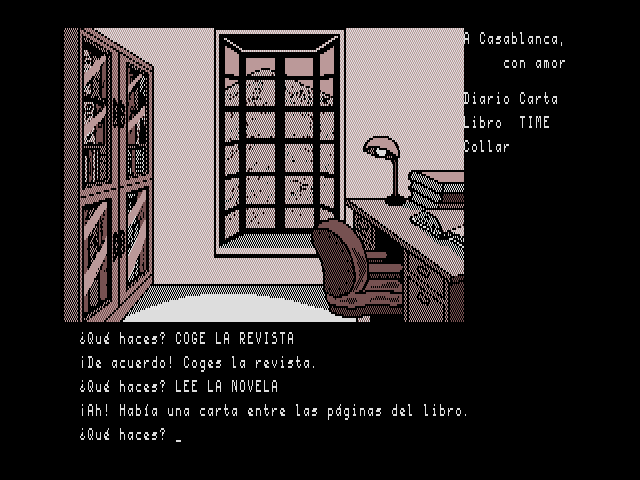
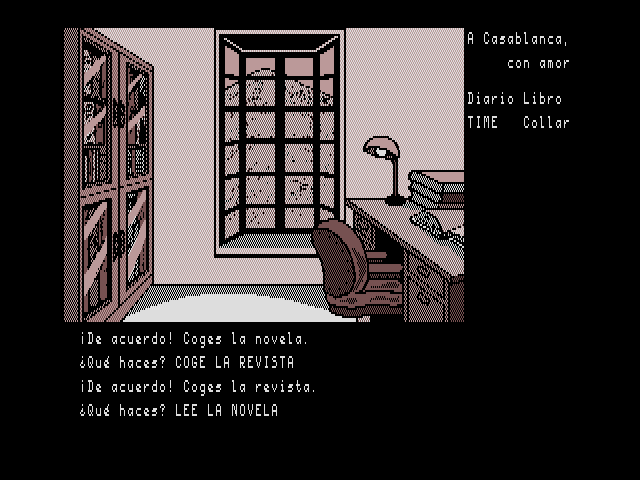
v1.0: título en castellano y panel derecho separado del dibujo
Claude-Session: https://claude.ai/code/session_01BwzBfcK2bq4k6ZrqTBs971

diff --git a/tools/pic.py b/tools/pic.py
@@ -1,0 +1,48 @@
+# Compresor y descompresor de los dibujos de OPEN.COM (PIC100/PIC101.MSX). araubi, 2026. MIT.
+"""Formato de dibujo de OPEN.COM (PIC100/101): por cada par de líneas, N controles alternos
+literal/ceros, filtro XOR acumulado, bytes pares = línea par, impares (rotados 2) = línea impar."""
+def rl2(a): return ((a<<2)|(a>>6))&255
+def rr2(a): return ((a>>2)|(a<<6))&255
+def decodifica(d):
+    W=d[0]; H=d[1]; p=2; vram=bytearray(128*H)
+    for it in range(H//2):
+        n=d[p]; p+=1; ctl=d[p:p+n]; p+=n; buf=bytearray(); lit=True
+        for k in ctl:
+            if lit: buf+=d[p:p+k]; p+=k
+            else: buf+=bytes(k)
+            lit=not lit
+        buf+=bytes(2*W-len(buf))
+        a=0
+        for j in range(W):
+            a^=buf[2*j]; buf[2*j]=a
+            a^=buf[2*j+1]; buf[2*j+1]=rl2(a)
+        for j in range(W):
+            vram[(2*it)*128+j]=buf[2*j]; vram[(2*it+1)*128+j]=buf[2*j+1]
+    return vram,W,H,p
+def codifica(vram,W,H):
+    out=bytearray([W,H])
+    for it in range(H//2):
+        e=[vram[(2*it)*128+j] for j in range(W)]; o=[vram[(2*it+1)*128+j] for j in range(W)]
+        buf=bytearray(2*W); a=0
+        for j in range(W):
+            buf[2*j]=e[j]^a; a=e[j]
+            v=rr2(o[j]); buf[2*j+1]=v^a; a=v
+        # quita ceros finales
+        n=len(buf)
+        while n and buf[n-1]==0: n-=1
+        ctl=[]; data=bytearray(); i=0; lit=True
+        while i<n:
+            j=i
+            if lit:
+                # literal hasta encontrar 3+ ceros seguidos
+                while j<n and j-i<255:
+                    if buf[j]==0 and j+2<n and buf[j+1]==0 and buf[j+2]==0: break
+                    if buf[j]==0 and j+1>=n: break
+                    j+=1
+                data+=buf[i:j]
+            else:
+                while j<n and buf[j]==0 and j-i<255: j+=1
+            ctl.append(j-i); i=j; lit=not lit
+        assert len(ctl)<256
+        out+=bytes([len(ctl)])+bytes(ctl)+data
+    return bytes(out)

diff --git a/tools/genera_titulo.py b/tools/genera_titulo.py
@@ -1,0 +1,33 @@
+#!/usr/bin/env python3
+"""Genera font/titulo_es.png: el título en castellano que sustituye al japonés en PIC101.MSX.
+Zona x 228-511, y 4-52 de la pantalla de 512x200 (SCREEN 6: píxeles el doble de altos que de anchos).
+Usa FreeSerif Bold Italic (GNU FreeFont) y la fuente de la traducción. araubi, 2026. MIT.
+uso: genera_titulo.py   (necesita Pillow y fonts-freefont-ttf)"""
+import os,sys,glob
+from PIL import Image,ImageDraw,ImageFont
+RAIZ=os.path.dirname(os.path.dirname(os.path.abspath(__file__)))
+sys.path.insert(0,os.path.join(RAIZ,'tools'))
+from fuente import construye as fnt, codifica
+X0,Y0,W,H=228,4,284,49
+def ttf(nombre,t): return ImageFont.truetype(glob.glob('/usr/share/fonts/**/'+nombre,recursive=True)[0],t)
+def texto(s,f,umbral=110):
+    d=ImageDraw.Draw(Image.new('L',(1,1))); b=d.textbbox((0,0),s,font=f)
+    im=Image.new('L',(b[2]-b[0]+8,b[3]-b[1]+8),0); ImageDraw.Draw(im).text((4-b[0],4-b[1]),s,font=f,fill=255)
+    w,h=im.size; im=im.resize((max(1,w//2),max(1,h//4)),Image.LANCZOS)
+    return im.point(lambda p:255 if p>umbral else 0)
+def pequeno(s):
+    G=fnt(); cs=codifica(s); im=Image.new('L',(8*len(cs),11),0)
+    for i,c in enumerate(cs):
+        for y in range(11):
+            for x in range(8):
+                if G[c*11+y]&(0x80>>x): im.putpixel((i*8+x,y),255)
+    return im
+m=Image.new('1',(W,H),0)
+def pega(im,x,y): m.paste(im.convert('1'),(x-X0,y-Y0),im.convert('1'))
+t1=texto('A Casablanca,',ttf('FreeSerifBoldItalic.ttf',84)); t2=texto('con amor',ttf('FreeSerifBoldItalic.ttf',84))
+t3=pequeno('El asesino que cruzó el tiempo')
+pega(t1,250,6); y2=6+t1.size[1]-2; pega(t2,505-t2.size[0],y2)
+yl=y2+t2.size[1]+1
+for x in range(300,508): m.putpixel((x-X0,yl-Y0),1)
+pega(t3,507-t3.size[0],yl+3)
+m.save(os.path.join(RAIZ,'font','titulo_es.png'))

diff --git a/tools/pdf_solucion.py b/tools/pdf_solucion.py
@@ -34,7 +34,7 @@ def pasos(filas):
 E=[]
 E.append(P('A Casablanca, con amor','t'))
 E.append(P('<i>Casablanca ni Ai wo</i> (Thinking Rabbit, 1988, MSX2) · Guía de la traducción al castellano · araubi · versión 1.0','st'))
-tit=os.path.join(os.path.dirname(os.path.dirname(os.path.abspath(__file__))),'docs','titulo.png')
+tit=os.path.join(os.path.dirname(os.path.dirname(os.path.abspath(__file__))),'docs','capturas','titulo.png')
 if os.path.exists(tit): E.append(Image(tit,width=120*mm,height=90*mm)); E.append(Spacer(1,4))
 E.append(P('Esta guía lleva la partida de principio a fin con las órdenes de la traducción. Se ha jugado entera en openMSX '
  '(Sony HB-F900) con los discos traducidos, en este mismo orden. '

diff --git a/tools/titulo.py b/tools/titulo.py
@@ -1,0 +1,15 @@
+"""Pone el título en castellano (font/titulo_es.png) en PIC101.MSX. araubi, 2026. MIT."""
+import os
+from PIL import Image
+import pic
+RAIZ=os.path.dirname(os.path.dirname(os.path.abspath(__file__)))
+X0,Y0=228,4
+def aplica(orig):
+    v,W,H,_=pic.decodifica(orig); v=bytearray(v)
+    m=Image.open(os.path.join(RAIZ,'font','titulo_es.png')).convert('1')
+    for y in range(m.size[1]):
+        for x in range(m.size[0]):
+            X=X0+x; Y=Y0+y; o=Y*128+X//4; s=6-2*(X%4)
+            c=0 if m.getpixel((x,y)) else 3
+            v[o]=(v[o]&~(3<<s)&255)|(c<<s)
+    return pic.codifica(v,W,H)

diff --git a/tools/build.py b/tools/build.py
@@ -20,6 +20,9 @@ def main(p1,p2,out,textos=True):
     com,S=parche_runadv.parchea(D1.lee('RUNADV.COM'),id_relleno,*([[l or parche_runadv.LARGOS[i] for i,l in enumerate(largos)]] if textos else []))
     D1.escribe('RUNADV.COM',com)
     D1.escribe('KANJI.FNT',kanji_fnt(D1.lee('KANJI.FNT')))
+    import titulo
+    t=titulo.aplica(D1.lee('PIC101.MSX')); assert len(t)<0x36B0
+    D1.escribe('PIC101.MSX',t)
     os.makedirs(out,exist_ok=True)
     open(os.path.join(out,'Casablanca_ES_disco1.dsk'),'wb').write(D1.imagen())
     open(os.path.join(out,'Casablanca_ES_disco2.dsk'),'wb').write(D2.imagen())

diff --git a/tools/parche_runadv.py b/tools/parche_runadv.py
@@ -110,6 +110,8 @@ def parchea(com,id_relleno,largos=LARGOS):
     p(0x0DDB,'CD320F',bytes([0xCD])+w16(S['EXT_BUSCA']))
     # 5b) minúsculas sin CAPS y Ñ
     p(0x16EB,'CDA525',bytes([0xCD])+w16(S['EXT_CHGET']))
+    # 5c) panel derecho separado del dibujo
+    p(0x25C9,'E5696022',bytes([0xC3])+w16(S['EXT_X'])+b'\0')
     # 6) listas de objetos
     p(0x0532,'CD8E25',bytes([0xCD])+w16(S['EXT_OBJ_SALA']))
     p(0x056B,'82C620','000000')

diff --git a/README.md b/README.md
@@ -8,6 +8,7 @@ aventura conversacional de **Thinking Rabbit** para **MSX2** publicada en 1988 e
 tiempo hasta 1916 para aclarar el caso. Se juega escribiendo órdenes («LLAMA A LA PUERTA»,
 «COGE LA NAVAJA»), y ahora en castellano.
 
+![Título](docs/capturas/titulo.png)
 ![El mayordomo](docs/capturas/mayordomo.png)
 ![El laboratorio](docs/capturas/laboratorio.png)
 ![La biblioteca](docs/capturas/biblioteca.png)
@@ -25,7 +26,7 @@ solo dos **parches IPS**, uno por disco, y las fuentes para rehacerlos.
 | `tools/` | Scripts en Python que construyen los discos traducidos desde los originales |
 | `src/` | `ext.asm`: ampliación del intérprete (Z80, pasmo) |
 | `trad/` | Textos en castellano: mensajes, vocabulario y objetos |
-| `font/` | Fuente de C-BIOS de la que sale la fuente de la traducción |
+| `font/` | Fuente de C-BIOS de la que sale la fuente de la traducción y el título en castellano |
 | `docs/` | Solución en PDF, lista de órdenes, notas técnicas y curiosidades |
 
 ## Discos necesarios
@@ -39,7 +40,7 @@ Con los IPS aplicados:
 
 | Disco traducido | SHA-1 |
 |---|---|
-| 1 | `bdca80827d47d4cec60e6990642f8c9abb6edf41` |
+| 1 | `73079f9a9074ad2c43f5a2fd8da6c7a0b88b2149` |
 | 2 | `46872a364896e1ec93ed56c57a02bbd999498cb4` |
 
 ## Cómo aplicar el parche
@@ -94,7 +95,8 @@ ACABA, DUERME, DESCANSA, BESA, PRENDE, LLEVA.
   palabras de relleno que se ignoran y listas de objetos con artículo («Llevas un diario,
   un collar.»).
 - Entrada en minúsculas (el original las convertía en kana) y Ñ.
-- Panel derecho y textos del intérprete en castellano.
+- Pantalla de título en castellano («A Casablanca, con amor. El asesino que cruzó el tiempo»).
+- Panel derecho y textos del intérprete en castellano, con el panel separado unos píxeles del dibujo.
 
 Detalles en [docs/NOTAS_TECNICAS.md](docs/NOTAS_TECNICAS.md) y
 [docs/CURIOSIDADES.md](docs/CURIOSIDADES.md).
@@ -110,12 +112,14 @@ python3 tools/ips.py crea disco2_original.dsk salida/Casablanca_ES_disco2.dsk di
 ```
 
 `build.py` comprueba el SHA-1 de los discos originales, sustituye dentro del disco 1
-`RUNADV.COM` (intérprete parcheado + `src/ext.asm`) y `KANJI.FNT` (fuente nueva), y dentro del
+`RUNADV.COM` (intérprete parcheado + `src/ext.asm`), `KANJI.FNT` (fuente nueva) y
+`PIC101.MSX` (título con `font/titulo_es.png`, que vuelve a comprimir `tools/pic.py`), y dentro del
 disco 2 `CASAB.TBL`, `CASAB.MSG` y `CASAB.INT` (vocabulario, mensajes y guion). El resultado
 coincide byte a byte con los discos de la tabla y con los IPS de `releases/`.
 
 Otras herramientas: `tools/reglas2.py disco2.dsk` vuelca las reglas del juego en texto
-legible; `tools/intparse.py disco2.dsk` comprueba el guion; `tools/pdf_solucion.py` genera la
+legible; `tools/intparse.py disco2.dsk` comprueba el guion; `tools/genera_titulo.py` rehace
+`font/titulo_es.png` (necesita Pillow y GNU FreeFont); `tools/pdf_solucion.py` genera la
 solución en PDF (necesita reportlab y las fuentes DejaVu).
 
 ## Créditos
@@ -123,12 +127,12 @@ solución en PDF (necesita reportlab y las fuentes DejaVu).
 - *Casablanca ni Ai wo* © 1988 Thinking Rabbit.
 - Traducción, dirección y pruebas: **araubi**.
 - Desarrollado con Claude (Anthropic).
-- Fuente basada en la de [C-BIOS](http://cbios.sourceforge.net/).
+- Fuente basada en la de [C-BIOS](http://cbios.sourceforge.net/). Título dibujado con GNU FreeFont (FreeSerif).
 
 ## Licencia y avisos
 
 - Herramientas y código propio (`tools/`, `src/`): **MIT** ([LICENSE](LICENSE)).
-- Textos de la traducción (`trad/`), documentación (`docs/`, este README) y parches IPS:
+- Textos de la traducción (`trad/`), título (`font/titulo_es.png`), documentación (`docs/`, este README) y parches IPS:
   **CC BY-NC-SA 4.0** ([LICENSE-CC](LICENSE-CC)).
 - `font/cbios_font.bin`: licencia BSD de 2 cláusulas de C-BIOS
   ([font/LICENSE-CBIOS.txt](font/LICENSE-CBIOS.txt)).
